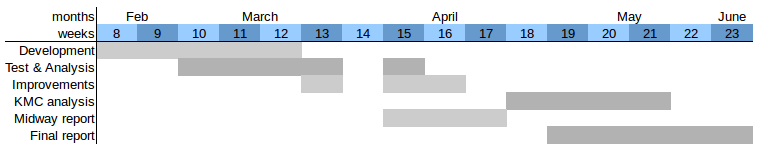
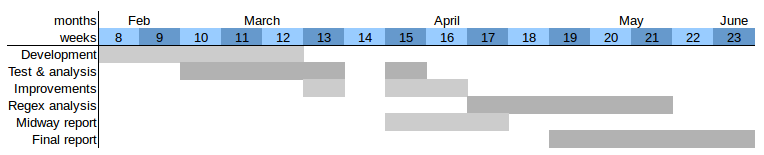
synopsis

diff --git a/tex/thomsen.haarslev_synopsis.tex b/tex/thomsen.haarslev_synopsis.tex
@@ -18,7 +18,6 @@
 \usepackage{tikz}
 \usetikzlibrary{positioning,shapes, shadows, arrows}
 \usepackage{listings}
-\usepackage{pgfgantt}
 
 \setlength\parindent{0pt}
 \usepackage[parfill]{parskip}
@@ -112,7 +111,7 @@
       {\Large Regular Expression Matching In Genomic Data}\\[0.4cm]
       {\large Rasmus Haarslev - nkh877}\\
       {\large Troels Thomsen - qvw203}\\[0.4cm]
-      {Supervisiors: Rasmus Fonseca \& Fritz Henglein}\\
+      {Supervisors: Rasmus Fonseca}\\
       {\small 23. Februar 2015}\\[0.3cm] 
       {\small Department of Computer Science}\\
       {\small University of Copenhagen}
@@ -135,22 +134,23 @@ Specifically we wish to solve the following problems:
 \begin{itemize}
 	\item Is it possible to programatically convert patterns used by the scan-for-matches program into regular expressions for the KMC engine? If not all patterns used by scan-for-matches then which ones?
 	\item Is it possible to achieve speeds matching or exceeding scan-for-matches with the generated regular expressions and the KMC engine?
-	\item Are there features missing from the KMC engine (such as backtracking), which if they were present would yield better performance in the case of these specific patterns?
+	\item Can we find weak extensions to regular expressions, which would enable us to support more or all scan-for-matches patterns?
 \end{itemize}
 
 \subsection{Limits}
 
 \begin{itemize}
 	\item We will not attempt to modify the KMC engine.
+	\item We will not look into the theory behind the scan-for-matches engine.
 \end{itemize}
 
 \newpage
 
 \section{Motivation}
 
-Institute for Bioinformatics have a allocated, and are still allocating, a lot of DNA sequencing data. Currently they have around a total of 2 petabytes of data. These sequences of DNA contain a lot of information, but searching through the data currently uses the scan-for-matches program, which while performing very well, is not very user friendly and have some unfortunate limitations when running many consecutive scans, since it performs I/O operations for every run.
+Institute for Microbiology have a allocated, and are still allocating, a lot of DNA sequencing data. Currently they have around a total of 2 petabytes of data. These sequences of DNA contain a lot of information, but searching through the data currently uses the scan-for-matches program, which while performing very well, is not very user friendly and have some unfortunate limitations when running many consecutive scans, since it performs I/O operations for every run.
 
-Recently Fritz' group have developed a regular expression engine called KMC, which so far have performed five times better than current industry standard engines. Since scan-for-matches outperforms NR-grep\cite{nrgrep}, we are hoping that optimized regular expressions running on KMC will be able to outperform NR-grep and subsequently scan-for-matches.
+Recently, Professor Henglein's group have developed a regular expression engine called KMC, which so far have performed five times better than current industry standard engines. Since scan-for-matches outperforms NR-grep\cite{nrgrep}, we are hoping that optimized regular expressions running on KMC will be able to outperform NR-grep and subsequently scan-for-matches.
 
 If we could achieve a performance improvement over scan-for-matches, it would greatly benefit the bioinformatics team. As such we see this as a chance to make a unique contribution to ongoing and future research projects, while at the same time providing a chance for the KMC team to have their engine tested in a new scenario.
 
@@ -159,17 +159,17 @@ If we could achieve a performance improvement over scan-for-matches, it would gr
 \section{Tasks and Schedule}
 
 \begin{itemize}
-	\item Develop a standalone Ruby and C application as a solution to the problem.
+	\item Develop a standalone Ruby and C application as a solution to the tasks defined in the problem definition.
 	\begin{itemize}
 		\item \textbf{Product:} A fully functional Ruby/C application, that can translate scan-for-matches patterns into regular expressions, understood by the KMC engine.
 		\item \textbf{Resource demands:} Laptops, our contact persons with insight in the KMC engine, testing data in the fasta format, and the KMC engine.
-		\item \textbf{Dependencies:} Problem formulation
+		\item \textbf{Dependencies:} Problem definition
 		\item \textbf{Time demands:} 5 weeks
 	\end{itemize}
 	
-	\item Test and analyse the efficiency of our application compared to scan-for-matches.
+	\item Test and analyze the efficiency of our regular expressions on the KMC engine, compared to scan-for-matches.
 	\begin{itemize}
-		\item \textbf{Product:} An extensive analysis of our application, with suggestions for possible improvements.
+		\item \textbf{Product:} An extensive analyzis of our regular expressions in combination with the KMC engine, with suggestions for possible improvements.
 		\item \textbf{Resource demands:} Laptops, testing data in the fasta format, and the KMC engine.
 		\item \textbf{Dependencies:} The application that we developed.
 		\item \textbf{Time demands:} 5 weeks (In parallel with development)
@@ -183,50 +183,22 @@ If we could achieve a performance improvement over scan-for-matches, it would gr
 		\item \textbf{Time demands:} 3 weeks
 	\end{itemize}
 	
-	\item Analyse the KMC engine, and find possible improvements to the engine.
+	\item Analyze our regular expressions, and look for possible extensions, which would enable more or all scan-for-matches patterns.
 	\begin{itemize}
-		\item \textbf{Product:} Analysis of the KMC engine as well as suggestions for possible improvements.
-		\item \textbf{Resource demands:} Laptops, and the KMC engine.
-		\item \textbf{Dependencies:} None.
+		\item \textbf{Product:} An extension to our regular expressions.
+		\item \textbf{Resource demands:} Laptops.
+		\item \textbf{Dependencies:} Our translated regular expressions.
 		\item \textbf{Time demands:} 4 weeks
 	\end{itemize}
 \end{itemize}
 
-\begin{tabular}{|r|cccccccccccccccc|}
-\hline
-\textbf{week} & 8 & 9 & 10 & 11 & 12 & 13 & 14 & 15 & 16 & 17 & 18 & 19 & 20 & 21 & 22 & 23 \\
-\hline
-Development & X & X & X & X & X & & - &&&&&&&&& \\
-Test \& analysis & & & X & X & X & X & - & X &&&&&&&& \\
-Improvement &&&&&& X & - & X & X &&&&&&& \\
-KMC analysis &&&&&&& - &&&& X & X & X & X && \\
-Midway report &&&&&&& - & X & X & X &&&&&& \\
-Final report &&&&&&& - &&&&& X & X & X & X & X \\
-\hline
-\end{tabular}
-
-%\begin{ganttchart}[hgrid, vgrid, x unit=0.15cm]{55}{159}
-	%\gantttitlecalendar{month=shortname, week=9} \\
-	%\gantttitlelist{9,...,23}{7} \\
-	%\ganttset{progress label text={}, link/.style={black, -to}}
-	%\ganttgroup{Objective 1}{2}{15} \\
-	%\ganttbar[progress=4, name=T1A]{Task A}{25}{46} \\
-	%\ganttlinkedbar[progress=0]{Task B}{10}{24} \\
-	
-	%\ganttgroup{Objective 2}{1}{5} \\
-	%\ganttbar[progress=15, name=T2A]{Task A}{5}{36} \\
-	%\ganttlinkedbar[progress=0]{Task B}{20}{78} \\
-	
-	%\ganttgroup{Objective 3}{2}{58} \\
-	%\ganttbar[progress=0]{Task A}{11}{22} \\
-	%\ganttset{link/.style={OliveGreen}} \\
-%\end{ganttchart}
-
+\subsection{Gantt Diagram}
+\makebox[\textwidth]{\includegraphics[width=550pt]{GanttDiagram.png}}
 	
 \newpage
 
 \bibliographystyle{plain}
-\nocite{*}	
+\nocite{*}
 \bibliography{litterature}
 
 \end{document}
